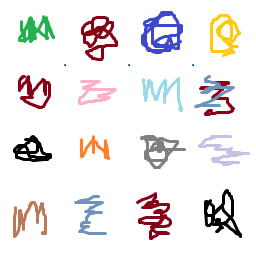
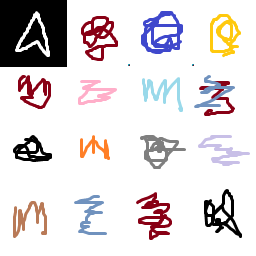
flying spaceship

Changed region(s): [[0.0, 0.0, 0.2812, 0.2812]]

diff --git a/SpaceShooter/Main.cpp b/SpaceShooter/Main.cpp
@@ -1,12 +1,73 @@
 #include "Graphics.h"
+#include "Physics.h"
 #include <stdio.h>
+
+using hlslpp::float2;
 
 bool run;
 
 float deltaTime = 1.0f;
 float time;
 
+bool leftHeld = false;
+bool rightHeld = false;
+bool upHeld = false;
+
 SDL_Window* window;
+
+void handleInput(SDL_Event event)
+{
+	if (event.type == SDL_KEYDOWN)
+	{
+		switch (event.key.keysym.sym)
+		{
+		case SDLK_UP:
+			upHeld = true;
+			break;
+			
+		case SDLK_DOWN:
+			break;
+
+		case SDLK_LEFT:
+			leftHeld = true;
+			break;
+
+		case SDLK_RIGHT:
+			rightHeld = true;
+			break;
+
+		default:
+			break;
+		}
+
+	}
+	if (event.type == SDL_KEYUP)
+	{
+		switch (event.key.keysym.sym)
+		{
+		case SDLK_UP:
+			upHeld = false;
+			break;
+
+		case SDLK_DOWN:
+			break;
+
+		case SDLK_LEFT:
+			leftHeld = false;
+			break;
+
+		case SDLK_RIGHT:
+			rightHeld = false;
+			break;
+
+		default:
+			break;
+		}
+
+	}
+
+
+}
 
 bool init()
 {
@@ -51,8 +112,11 @@ int main(int argumentCount, char * arguments[])
 	}
 
 	Sprite s;
+	VelocityMovement vm;
+	hlslpp::float2 pos = hlslpp::float2(1.0f, 1.0f);
+	double angle = -0.25;
 
-	s.Set(16, 16, 2);
+	//vm.AddVector(hlslpp::float2(0.0002f, 0.0002f));
 
 	int counter = 0;
 	float timer = 0.0f;
@@ -67,11 +131,33 @@ int main(int argumentCount, char * arguments[])
 
 		while (SDL_PollEvent(&e) != 0)
 		{
+			handleInput(e);
 			if (e.type == SDL_QUIT)
 			{
 				run = false;
 			}
 
+		}
+		if (leftHeld)
+		{
+			angle -= 0.001 * deltaTime;
+		}
+		if (rightHeld)
+		{
+			angle += 0.001 * deltaTime;
+		}
+		if (upHeld)
+		{
+
+			float2 fireVec = float2(cos(angle * 6.28), sin(angle * 6.28));
+
+			fireVec = hlslpp::normalize(fireVec);
+
+			fireVec /= 1000;
+
+			fireVec *= (0.005f * deltaTime);
+
+			vm.AddVector(fireVec);
 		}
 
 		//prerender section
@@ -86,7 +172,9 @@ int main(int argumentCount, char * arguments[])
 			timer = timer + deltaTime;
 		}
 		
-		s.Set((int)(time / 4) % 1024, (int)(time / 4) % 768, counter, time / 2);
+		s.Set(pos, angle);
+
+		pos = vm.Update(pos, deltaTime);
 
 		SDL_SetRenderDrawColor(renderer, 0x00, 0xA0, 0xA0, 0xFF);
 		SDL_RenderClear(renderer);

diff --git a/SpaceShooter/Physics.cpp b/SpaceShooter/Physics.cpp
@@ -1,0 +1,78 @@
+#include "Physics.h"
+
+std::set<Collider*> Colliders;
+using hlslpp::float2;
+using hlslpp::float1;
+
+Collider::Collider(ColliderChannel ch)
+{
+	this->channel = ch;
+	Colliders.insert(this);
+}
+
+Collider::~Collider()
+{
+	Colliders.erase(this);
+}
+
+VelocityMovement::VelocityMovement()
+{
+	velocity = float2(0.0f, 0.0f);
+}
+
+void VelocityMovement::AddVector(float2 v)
+{
+	velocity += v;
+}
+
+float2 VelocityMovement::Update(float2 pos, float deltaTime)
+{
+	const float speedlimit = 0.005;
+	int drag = 70;
+	if (velocity.x > speedlimit)
+	{
+		velocity.x = speedlimit;
+	}
+	if (velocity.x < -speedlimit)
+	{
+		velocity.x = -speedlimit;
+	}
+	if (velocity.y > speedlimit)
+	{
+		velocity.y = speedlimit;
+	}
+	if (velocity.y < -speedlimit)
+	{
+		velocity.y = -speedlimit;
+	}
+	if (pos.x < 0)
+	{
+		velocity = float2(-velocity.x, velocity.y);
+		pos.x = 0.0f;
+		drag = 10;
+	}
+	else if (pos.x > 2.0f)
+	{
+		velocity = float2(-velocity.x, velocity.y);
+		pos.x = 2.0f;
+		drag = 10;
+	}
+	else if (pos.y < 0)
+	{
+		velocity = float2(velocity.x, -velocity.y);
+		pos.y = 0;
+		drag = 10;
+	}
+	else if (pos.y > 2.0f)
+	{
+		velocity = float2(velocity.x, -velocity.y);
+		pos.y = 2.0f;
+		drag = 10;
+	}
+
+	velocity = velocity - (velocity / drag);
+
+	float2 result = pos + (velocity * deltaTime);
+
+	return pos + (velocity * deltaTime);
+}

diff --git a/SpaceShooter/Graphics.cpp b/SpaceShooter/Graphics.cpp
@@ -11,10 +11,10 @@ int h;
 int hsize;
 int vsize;
 
-Sprite::Sprite(int x, int y)
+Sprite::Sprite(hlslpp::float2 pos, int textureIndex)
 {
 	Sprites.insert(this);
-	this->Set(x, y);
+	this->Set(pos, 0.0f, textureIndex);
 }
 
 Sprite::~Sprite()
@@ -24,13 +24,23 @@ Sprite::~Sprite()
 
 void Sprite::Render()
 {
-	SDL_RenderCopyEx(renderer, texture, &clip, &renderQuad, angle, &center, flip);
+	SDL_RenderCopyEx(renderer, texture, &clip, &renderQuad, ((angle + 0.25) * 6.28) * (180.0 / 3.14), &center, flip);
 }
 
-void Sprite::Set(int x, int y, int textureIndex, double angle, SDL_Point center, SDL_RendererFlip flip)
+void Sprite::Set(hlslpp::float2 pos, double angle, int textureIndex, SDL_Point center, SDL_RendererFlip flip)
 {
-	int hpos = 64 * (int)(textureIndex % hsize);
-	int vpos = 64 * (int)((textureIndex / hsize) % vsize);
+	if (textureIndex != -1)
+	{
+		textureIdx = textureIndex;
+	}
+	int hpos = 64 * (int)(textureIdx % hsize);
+	int vpos = 64 * (int)((textureIdx / hsize) % vsize);
+
+	int x = pos.x * (screenX / 2);
+	int y = pos.y * (screenY / 2);
+
+	//x = x % screenX;
+	//y = y % screenY;
 
 	this->clip = clip = { hpos, vpos, 64, 64};
 	this->renderQuad = { x, y, 64, 64};

diff --git a/SpaceShooter/Graphics.h b/SpaceShooter/Graphics.h
@@ -9,18 +9,18 @@
 class Sprite
 {
 public:
-
-	Sprite(int x = 0, int y = 0);
+	Sprite(hlslpp::float2 pos = hlslpp::float2(0.0f, 0.0f), int textureIndex = 0);
 	~Sprite();
 
 	void Render();
 
-	void Set(int x, int y, int textureIndex = 0, double angle = 0.0, SDL_Point center = {32, 32}, SDL_RendererFlip flip = SDL_FLIP_NONE);
+	void Set(hlslpp::float2 pos, double angle = 0.0, int textureIndex = -1, SDL_Point center = {33, 33}, SDL_RendererFlip flip = SDL_FLIP_NONE);
 
 private:
 	SDL_Rect renderQuad;
 	SDL_Rect clip;
 	double angle;
+	int textureIdx;
 	SDL_Point center; 
 	SDL_RendererFlip flip;
 
@@ -41,3 +41,6 @@ extern int w;
 extern int h;
 extern int hsize;
 extern int vsize;
+
+const int screenX = 1024 - 64;
+const int screenY = 768 - 64;

diff --git a/SpaceShooter/Physics.h b/SpaceShooter/Physics.h
@@ -1,0 +1,46 @@
+#pragma once
+
+#include <vector>
+#include <set>
+#include <SDL.h>
+#include <hlslpp/hlsl++.h>
+
+enum ColliderChannel
+{
+	CH_PLAYER,
+	CH_ENEMY,
+	CH_PROJECTILE
+};
+
+class Collider
+{
+public:
+
+	Collider(ColliderChannel ch);
+	~Collider();
+
+	void Set(int x, int y);
+
+private:
+	ColliderChannel channel;
+	int x;
+	int y;
+
+};
+
+class VelocityMovement
+{
+public:
+
+	VelocityMovement(void);
+
+	void AddVector(hlslpp::float2 v);
+	void StopMovement(void);
+	hlslpp::float2 Update(hlslpp::float2 pos, float deltaTime);
+
+private:
+	hlslpp::float2 velocity;
+
+};
+
+extern std::set<Collider*> Colliders;
